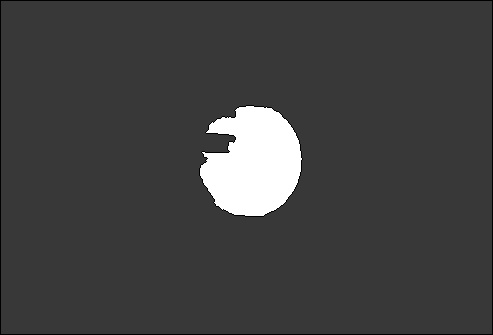
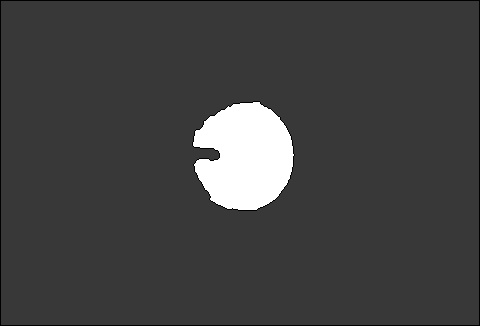
resize

diff --git a/code.py b/code.py
@@ -14,6 +14,15 @@ image = cv2.imread("images/"+filename, cv2.IMREAD_COLOR)
 print("\n\n",filename)
 image = cv2.medianBlur(image,3)
 
+print(image.shape)
+width, height = image.shape[:2]
+aspectRatio = width/height
+newHeight = 480
+newWidth = int(aspectRatio*newHeight)
+dim = (newHeight,newWidth)
+image = cv2.resize(image, dim, interpolation = cv2.INTER_AREA)
+print(image.shape)
+
 # selectOnImage_copy = image.copy()
 # marker_image = np.zeros(image.shape[:2],dtype=np.int32)
 # segments = np.zeros(image.shape,dtype=np.uint8)
@@ -64,9 +73,9 @@ image = cv2.medianBlur(image,3)
 image = cv2.cvtColor(image,cv2.COLOR_BGR2GRAY)
 image = cv2.equalizeHist(image)
 seg = cv2.imread("images/seg"+filename, cv2.IMREAD_GRAYSCALE)
-# cv2.imshow('detected circle (pupil)',image)
-# cv2.waitKey(0)
-# cv2.destroyAllWindows()
+# # cv2.imshow('detected circle (pupil)',image)
+# # cv2.waitKey(0)
+# # cv2.destroyAllWindows()
 
 npixels = 0
 intensitySum = 0
